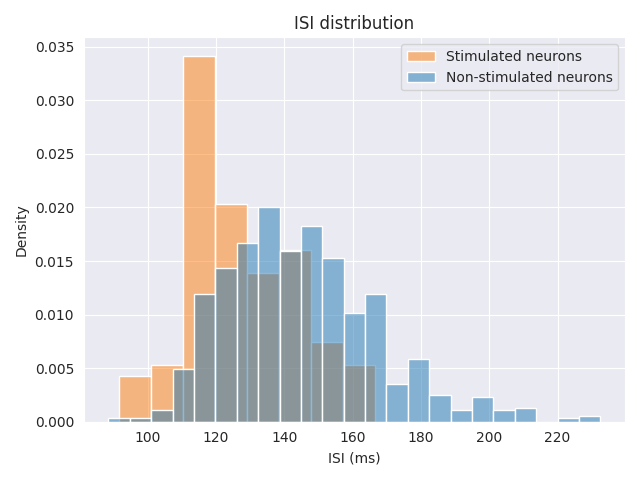
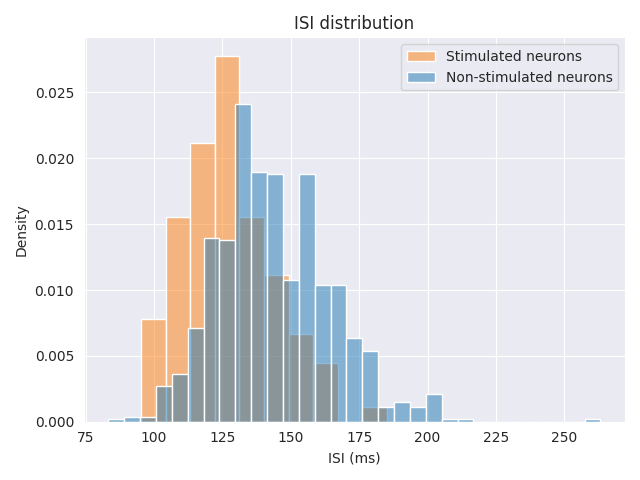
Added the batch size parameter to stimuli classes in docs and examples, included LoadedStimulus in implement_model tutorial and example and fixed typos

diff --git a/spikeometric/stimulus/base_stimulus.py b/spikeometric/stimulus/base_stimulus.py
@@ -8,9 +8,15 @@ class BaseStimulus(nn.Module):
     """
     @property
     def stimulus_masks(self):
+         r"""
+         Returns the batched stimulus masks.
+         """
          return torch.split(self.conc_stimulus_masks, self.split_points.tolist(), dim=0)
 
     def batch_stimulus_masks(self, stimulus_masks: list, batch_size: int) -> list:
+        r"""
+        Batches the stimulus masks into batches of size :obj:`batch_size`, concatenates them, and returns the concatenated stimulus masks and the split points.
+        """
         if batch_size > len(stimulus_masks):
             raise ValueError("Batch size must be smaller or equal to the number of networks.")
         n_neurons = torch.tensor([sm.shape[0] for sm in stimulus_masks])

diff --git a/spikeometric/stimulus/sin_stimulus.py b/spikeometric/stimulus/sin_stimulus.py
@@ -19,7 +19,7 @@ class SinStimulus(BaseStimulus):
         Period :math:`T` of stimulus
     duration : int
         Duration :math:`\tau` stimulus in total
-    stimulus_mask:
+    stimulus_masks:
         A mask of shape (n_neurons,) indicating which neurons to stimulate.
     batch_size : int
         The number of networks to stimulate in parallel.

diff --git a/docs/tutorials/implement_model.rst b/docs/tutorials/implement_model.rst
@@ -111,13 +111,13 @@ Stimulus filter
 ----------------
 We want the model to handle a multidimensional stimulus given to some of the neurons, 
 and must implement a :py:meth:`stimulus_filter` method to determine how this stimulus will be integrated into an input. 
-The function :py:func:`k` that we pass to the model will help us with this. 
-Note that we are assuming that all targeted neurons receive the same stimulus and that they have the same stimulus filter.
+The function :py:func:`k` that we pass to the model will decide how the different channels in the multidimensional stimulus are weighted.
+Note that we are assuming that all targeted neurons they have the same stimulus filter.
 
 .. code-block:: python
 
     def stimulus_filter(self, stimulus: torch.Tensor) -> torch.Tensor:
-        return torch.sum(stimulus*self.k(torch.arange(stimulus.shape[0])))
+        return torch.sum(stimulus*self.k(torch.arange(stimulus.shape[1])), dim=1)
 
 Input
 ------
@@ -133,7 +133,7 @@ Non-linearity
 --------------
 After we have collected the input to the neurons, we need to apply a non-linearity to it. In this case, 
 we use a rectified linear non-linearity. The rate is scaled by the time step to ensure that increasing the resolution
-of the simulation doesn't artificially increase the firing rate.
+of the simulation doesn't artificially change the firing rate.
 
 .. code-block:: python
 
@@ -196,7 +196,7 @@ Summary
             return W.flip(1)
 
         def stimulus_filter(self, stimulus: torch.Tensor) -> torch.Tensor:
-            return torch.sum(stimulus*self.k(torch.arange(stimulus.shape[0])))
+            return torch.sum(stimulus*self.k(torch.arange(stimulus.shape[1])), dim=1)
         
         def input(self, edge_index: torch.Tensor, W: torch.Tensor, state: torch.Tensor, t=-1) -> torch.Tensor:
             return self.synaptic_input(edge_index, W, state) + self.stimulus_input(t)
@@ -209,30 +209,39 @@ Summary
 
 Testing the model
 ------------------
-To test the model, we will simulate some networks with 50 neurons. We will use a random connectivity matrix  with normal weights and a random periodic stimulus.
+To test the model, we will simulate some networks with 50 neurons. We will use a random connectivity matrix with normal weights and a periodic stimulus
+with random amplitudes in five frequency bins. Since we are batching the simulations in groups of 2 networks,
+we will first generate a stimulus plan and make use of the :py:class:`LoadedStimulus` class to take care of the batching for us.
 
 .. code-block::
 
     n_neurons = 50
-    test_data = NormalGenerator(n_neurons, mean=0, std=0.1, glorot=True).generate(10)
-    loader = DataLoader(test_data, batch_size=5, shuffle=False)
+    test_data = NormalGenerator(n_neurons, mean=0, std=0.5, glorot=True).generate(10)
+    loader = DataLoader(test_data, batch_size=2, shuffle=False)
 
     def r(t):
-        return -100.*(t < 2) + -100*torch.exp(-2*(t-2))*(t >= 2)*(t<5)
+        return -1000.*(t < 2) + -1000*torch.exp(-2*(t-2))*(t >= 2)*(t<5)
 
     def w(t):
         return torch.exp(-t/2)
 
     def k(f):
-        return torch.exp(-f/5) # weight lower frequencies more
+        return torch.exp(-f)
 
-    def stimulus(t):
-        targets = torch.isin(torch.arange(50), torch.arange(50)[::10]).unsqueeze
-        return 0.1*torch.rand(5) * (t % 100 < 20)*targets
+
+    stimulus_plan = torch.zeros(50, 500, 5, 10) # 50 neurons, 500 time steps, 5 frequency bins, 10 networks
+    t = torch.arange(500)
+    for i in range(10):
+        # For each network, we stimulate the first 10 neurons (out of 50), for 20 time steps every 100 time steps, with random amplitudes in five frequency bins.
+        # The dimensions returned are [n_neurons, n_time_steps (length of t), n_frequency_bins]
+        stimulus_plan[:, :, :, i] = ((torch.arange(50) < 10).unsqueeze(1) * (t % 100 < 20)).unsqueeze(2)*torch.rand(50, t.shape[0], 5)
+
+    torch.save(stimulus_plan, "stimulus_plan.pt")
+    stimulus = LoadedStimulus("stimulus_plan.pt", batch_size=2)
 
     model = FilRectLNP(lambda_0=1, theta=-0.01, dt=1, T=20, r=r, w=w, k=k)
 
-Since we don't know what parameters to use, we'll make a guess and then tune them to give a firing rate of 10 Hz.
+We don't know what parameters to use, so we'll make a guess and then tune them to give a firing rate of 10 Hz.
 We'll use a learning rate of 1e-4 and train for 100 epochs with 500 time steps per epoch. Note that 
 the model is not trained to fit a set of spike trains, but rather to give a firing rate of 10 Hz. 
 Note also that we might need to try a few different inital parameters for the model not to immediately blow up.
@@ -250,9 +259,10 @@ We can now add the stimulus and simulate the model on the data.
 .. code-block::
 
     model.add_stimulus(stimulus)
-    results = torch.zeros((len(test_data), n_neurons))
+    n_steps = 10_000
+    results = torch.zeros((50*10, n_steps))
     for i, data in enumerate(loader):
-        results[i*data.num_nodes:(i+1)*data.num_nodes] = model.simulate(data, n_steps=500)
+        results[i*data.num_nodes:(i+1)*data.num_nodes] = model.simulate(data, n_steps=n_steps)
 
 And plot the results to get the following PSTH, ISI and raster plot
 

diff --git a/docs/tutorials/stimuli.rst b/docs/tutorials/stimuli.rst
@@ -132,7 +132,7 @@ Synchronizing the network activity with a stimulus
 --------------------------------------------------
 
 In this final example we'll try to synchronize the activity of a network with the frequency of a sinusoidal stimulus.
-We'll use the :py:class:`SinusoidalStimulus` to model the stimulus, and tune it to achieve an average firing rate of the network
+We'll use the :py:class:`SinStimulus` to model the stimulus, and tune it to achieve an average firing rate of the network
 that is close to the frequency of the stimulus.
 
 .. code-block:: python
@@ -162,7 +162,8 @@ that is close to the frequency of the stimulus.
         amplitude=1,
         period=100,                 # frequency = 1/period = 10 Hz
         duration=n_steps,
-        stimulus_masks=stim_masks
+        stimulus_masks=stim_masks,
+        batch_size=10,
     )
     model.add_stimulus(stimulus)
 

diff --git a/docs/modules/stimulus.rst b/docs/modules/stimulus.rst
@@ -5,13 +5,15 @@ Stimulus
 
 The stimlation classes are used to define the external input to the network. They inherit from the :class:`Module` class 
 from torch, which allows us to tune the parameters of the stimulus with the usual torch methods. A couple of stimulus models are provided in the package, but it is easy to implement
-new ones by taking inspiration from the existing ones and extending the :class:`Module` class from torch.
+new ones by taking inspiration from the existing ones and extending the :class:`BaseStimulus` class.
 
 .. autosummary::
    :toctree: generated/
    :nosignatures:
    :template: autosummary/class.rst
-
+   
+   BaseStimulus
    PoissonStimulus
    RegularStimulus
    SinStimulus
+   LoadedStimulus

diff --git a/docs/introduction/introduction.rst b/docs/introduction/introduction.rst
@@ -22,6 +22,8 @@ is invertible.
 Introductory example
 ====================
 
+.. currentmodule:: spikeometric.datasets
+.. currentmodule:: spikeometric.stimulus
 .. currentmodule:: spikeometric.models
 
 .. note::
@@ -123,6 +125,7 @@ For each of our ten networks, we will stimulate 4 random excitatory neurons.
         tau=10,
         dt=1,
         stimulus_masks=stimulus_masks,
+        batch_size=5
     )
     model.add_stimulus(stimulus)
 
